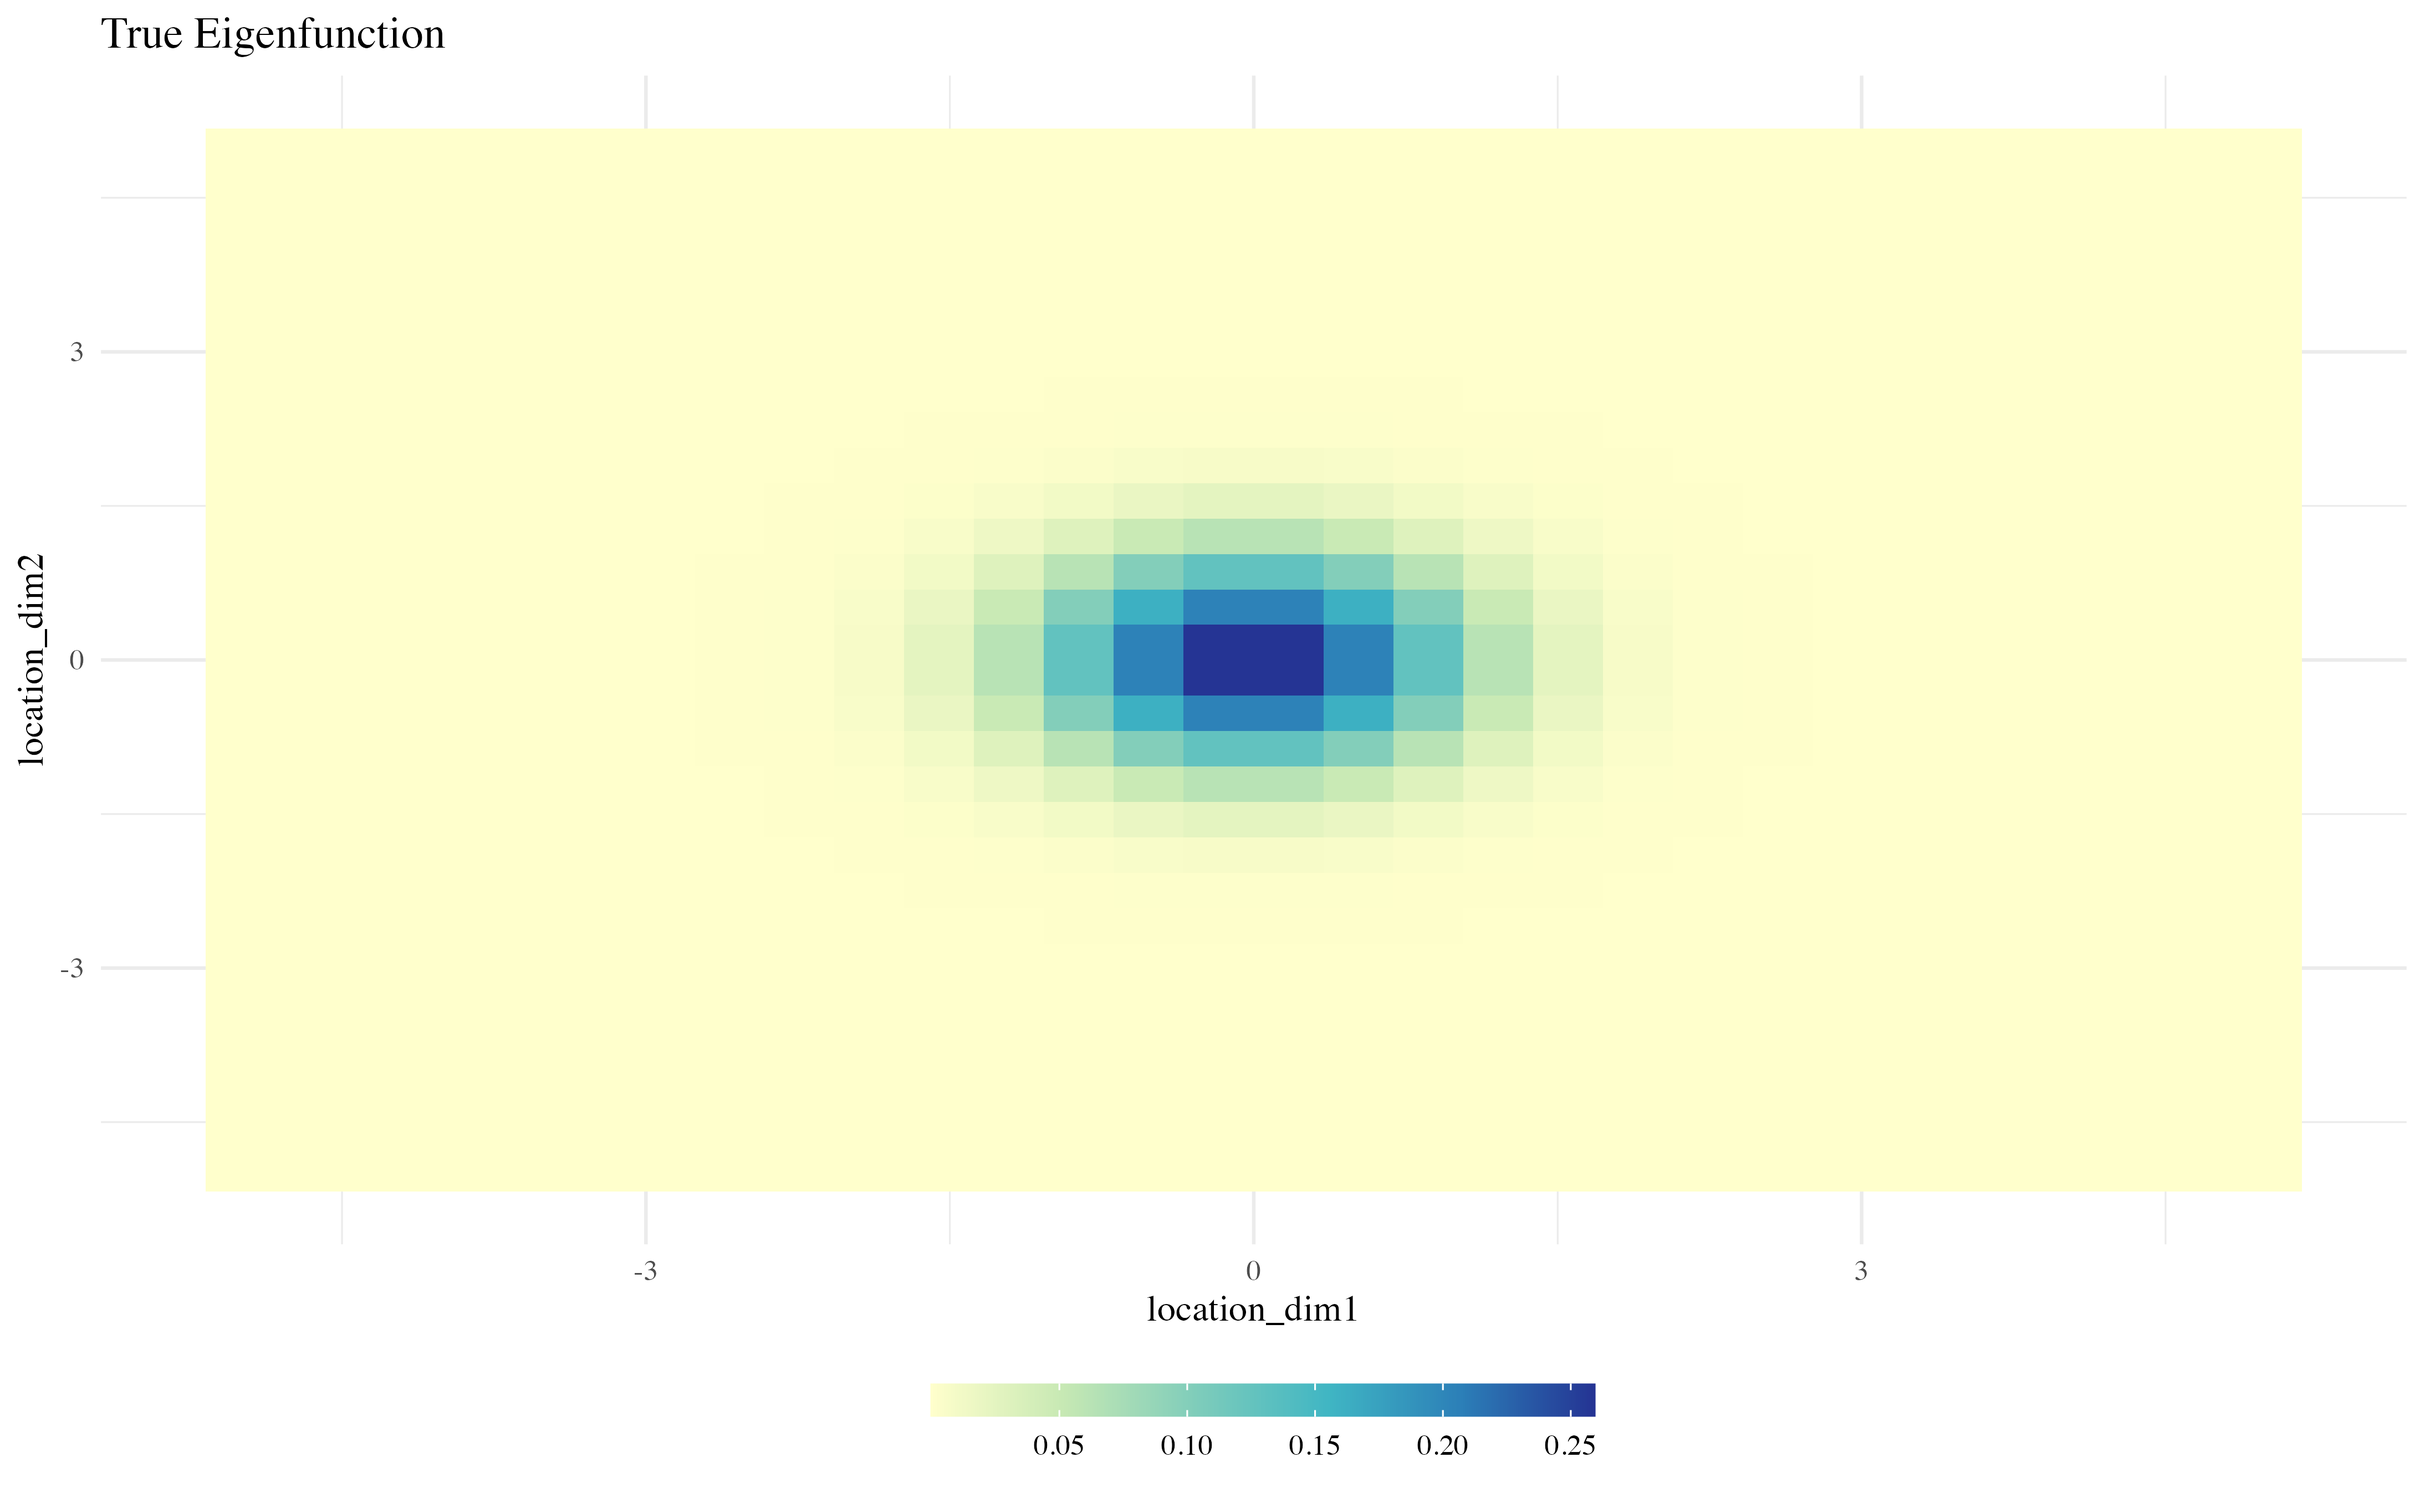
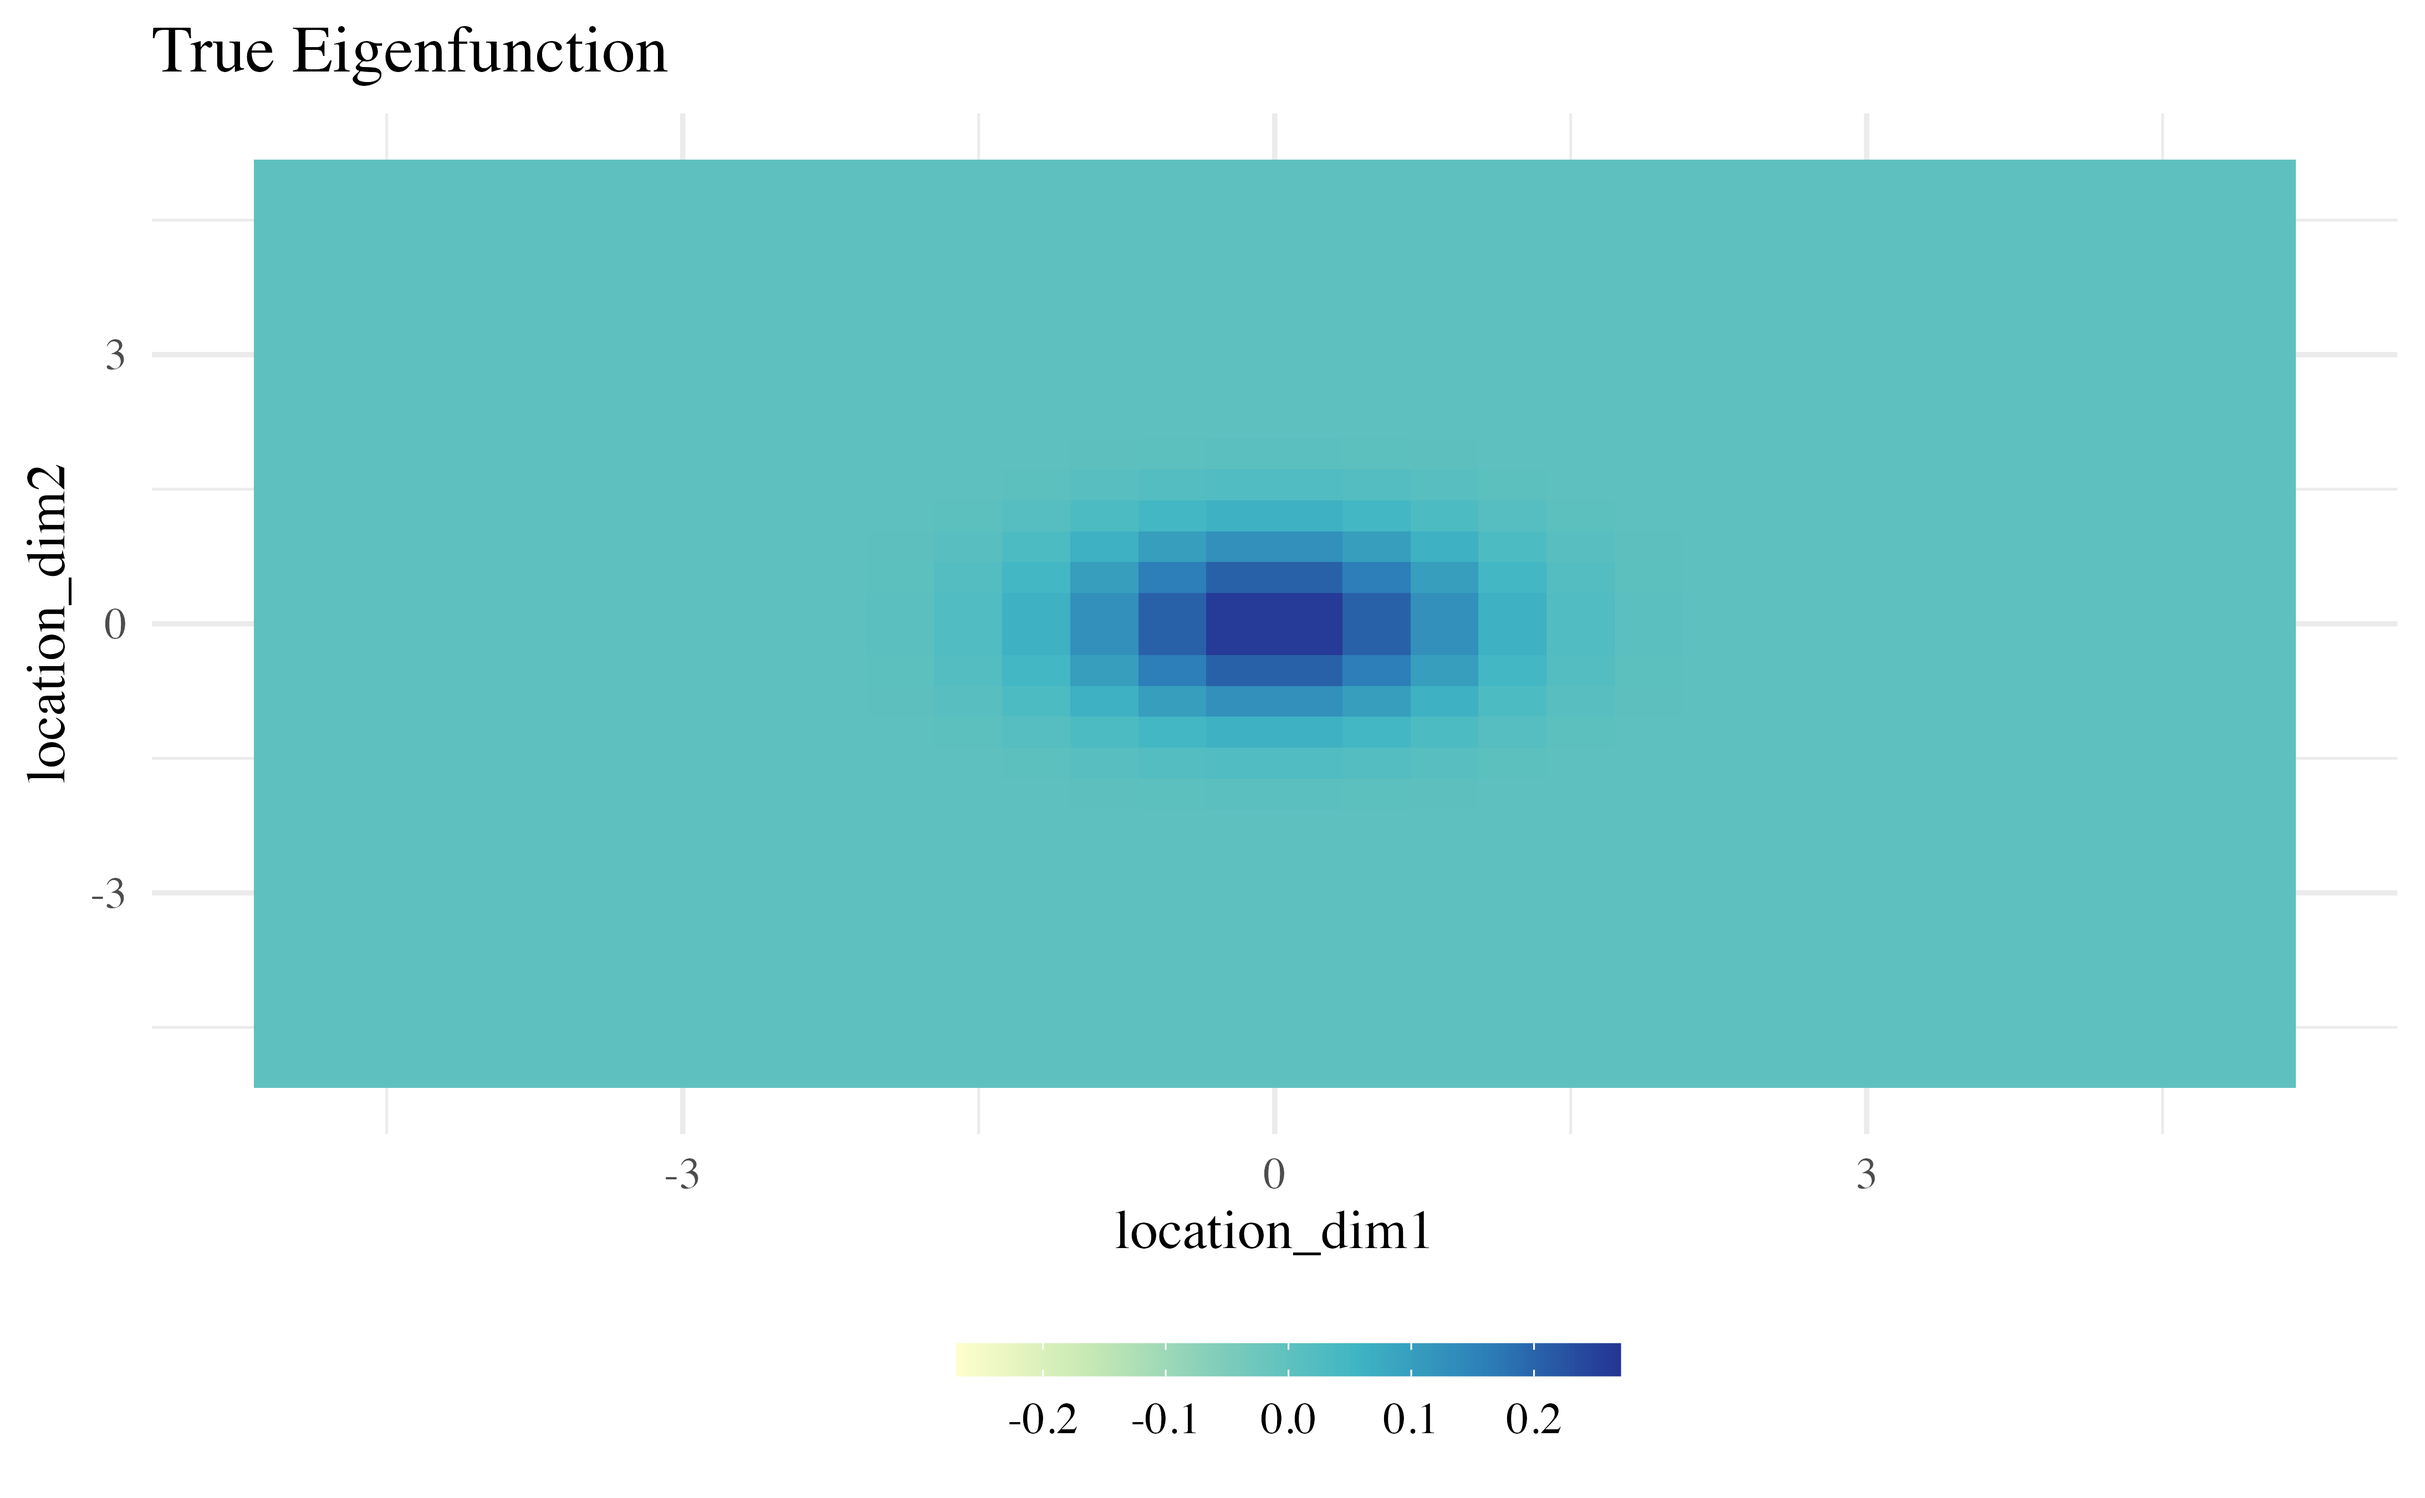
Built site for SpatPCA: 1.3.0.2@41415a8

diff --git a/articles/demo-two-dim-location.html b/articles/demo-two-dim-location.html
@@ -107,7 +107,7 @@
 <span class="kw"><a href="https://rdrr.io/r/base/library.html">library</a></span><span class="op">(</span><span class="va"><a href="https://github.com/NCAR/Fields">fields</a></span><span class="op">)</span>
 <span class="kw"><a href="https://rdrr.io/r/base/library.html">library</a></span><span class="op">(</span><span class="va">dichromat</span><span class="op">)</span>
 
-<span class="va">base_theme</span> <span class="op">&lt;-</span> <span class="fu"><a href="https://ggplot2.tidyverse.org/reference/ggtheme.html">theme_minimal</a></span><span class="op">(</span>base_size <span class="op">=</span> <span class="fl">8</span>, base_family <span class="op">=</span> <span class="st">"Times"</span><span class="op">)</span> <span class="op">+</span>
+<span class="va">base_theme</span> <span class="op">&lt;-</span> <span class="fu"><a href="https://ggplot2.tidyverse.org/reference/ggtheme.html">theme_minimal</a></span><span class="op">(</span>base_size <span class="op">=</span> <span class="fl">12</span>, base_family <span class="op">=</span> <span class="st">"Times"</span><span class="op">)</span> <span class="op">+</span>
   <span class="fu"><a href="https://ggplot2.tidyverse.org/reference/theme.html">theme</a></span><span class="op">(</span>legend.position <span class="op">=</span> <span class="st">"bottom"</span><span class="op">)</span>
 <span class="va">bluescale</span> <span class="op">&lt;-</span> <span class="fu"><a href="https://rdrr.io/r/grDevices/colorRamp.html">colorRampPalette</a></span><span class="op">(</span><span class="fu"><a href="https://rdrr.io/r/base/c.html">c</a></span><span class="op">(</span>
   <span class="st">"#FFFFCC"</span>,
@@ -122,7 +122,8 @@
     barheight <span class="op">=</span> <span class="fl">0.5</span>,
     label.position <span class="op">=</span> <span class="st">"bottom"</span><span class="op">)</span>
   <span class="op">)</span>
-<span class="va">coltab</span> <span class="op">&lt;-</span> <span class="fu">bluescale</span><span class="op">(</span><span class="fl">1024</span><span class="op">)</span></code></pre></div>
+<span class="va">coltab</span> <span class="op">&lt;-</span> <span class="fu">bluescale</span><span class="op">(</span><span class="fl">1024</span><span class="op">)</span>
+<span class="va">color_scale_limit</span> <span class="op">&lt;-</span> <span class="fu"><a href="https://rdrr.io/r/base/c.html">c</a></span><span class="op">(</span><span class="op">-</span><span class="fl">.27</span>, <span class="fl">.27</span><span class="op">)</span></code></pre></div>
 </div>
 <div id="true-spatial-pattern-eigenfunction" class="section level4">
 <h4 class="hasAnchor">
@@ -149,7 +150,7 @@
 <span class="op">)</span> <span class="op">%&gt;%</span>
   <span class="fu"><a href="https://ggplot2.tidyverse.org/reference/ggplot.html">ggplot</a></span><span class="op">(</span><span class="fu"><a href="https://ggplot2.tidyverse.org/reference/aes.html">aes</a></span><span class="op">(</span><span class="va">location_dim1</span>, <span class="va">location_dim2</span><span class="op">)</span><span class="op">)</span> <span class="op">+</span>
   <span class="fu"><a href="https://ggplot2.tidyverse.org/reference/geom_tile.html">geom_tile</a></span><span class="op">(</span><span class="fu"><a href="https://ggplot2.tidyverse.org/reference/aes.html">aes</a></span><span class="op">(</span>fill <span class="op">=</span> <span class="va">eigenfunction</span><span class="op">)</span><span class="op">)</span>  <span class="op">+</span>
-  <span class="fu"><a href="https://ggplot2.tidyverse.org/reference/scale_gradient.html">scale_fill_gradientn</a></span><span class="op">(</span>colours <span class="op">=</span> <span class="va">coltab</span><span class="op">)</span> <span class="op">+</span>
+  <span class="fu"><a href="https://ggplot2.tidyverse.org/reference/scale_gradient.html">scale_fill_gradientn</a></span><span class="op">(</span>colours <span class="op">=</span> <span class="va">coltab</span>, limits <span class="op">=</span> <span class="va">color_scale_limit</span><span class="op">)</span> <span class="op">+</span>
   <span class="va">base_theme</span> <span class="op">+</span>
   <span class="fu"><a href="https://ggplot2.tidyverse.org/reference/labs.html">labs</a></span><span class="op">(</span>title <span class="op">=</span> <span class="st">"True Eigenfunction"</span>, fill <span class="op">=</span> <span class="st">""</span><span class="op">)</span> <span class="op">+</span>
   <span class="va">fill_bar</span></code></pre></div>
@@ -220,7 +221,7 @@
   <span class="fu"><a href="https://tidyr.tidyverse.org/reference/gather.html">gather</a></span><span class="op">(</span><span class="va">estimate</span>, <span class="va">eigenfunction</span>, <span class="op">-</span><span class="fu"><a href="https://rdrr.io/r/base/c.html">c</a></span><span class="op">(</span><span class="va">location_dim1</span>, <span class="va">location_dim2</span><span class="op">)</span><span class="op">)</span> <span class="op">%&gt;%</span>
   <span class="fu"><a href="https://ggplot2.tidyverse.org/reference/ggplot.html">ggplot</a></span><span class="op">(</span><span class="fu"><a href="https://ggplot2.tidyverse.org/reference/aes.html">aes</a></span><span class="op">(</span><span class="va">location_dim1</span>, <span class="va">location_dim2</span><span class="op">)</span><span class="op">)</span> <span class="op">+</span>
   <span class="fu"><a href="https://ggplot2.tidyverse.org/reference/geom_tile.html">geom_tile</a></span><span class="op">(</span><span class="fu"><a href="https://ggplot2.tidyverse.org/reference/aes.html">aes</a></span><span class="op">(</span>fill<span class="op">=</span><span class="va">eigenfunction</span><span class="op">)</span><span class="op">)</span>  <span class="op">+</span>
-  <span class="fu"><a href="https://ggplot2.tidyverse.org/reference/scale_gradient.html">scale_fill_gradientn</a></span><span class="op">(</span>colours <span class="op">=</span> <span class="va">coltab</span><span class="op">)</span> <span class="op">+</span>
+  <span class="fu"><a href="https://ggplot2.tidyverse.org/reference/scale_gradient.html">scale_fill_gradientn</a></span><span class="op">(</span>colours <span class="op">=</span> <span class="va">coltab</span>, limits <span class="op">=</span> <span class="va">color_scale_limit</span><span class="op">)</span> <span class="op">+</span>
   <span class="va">base_theme</span> <span class="op">+</span>
   <span class="fu"><a href="https://ggplot2.tidyverse.org/reference/facet_wrap.html">facet_wrap</a></span><span class="op">(</span><span class="va">.</span><span class="op">~</span><span class="va">estimate</span><span class="op">)</span> <span class="op">+</span>
   <span class="fu"><a href="https://ggplot2.tidyverse.org/reference/labs.html">labs</a></span><span class="op">(</span>fill <span class="op">=</span> <span class="st">""</span><span class="op">)</span> <span class="op">+</span>
